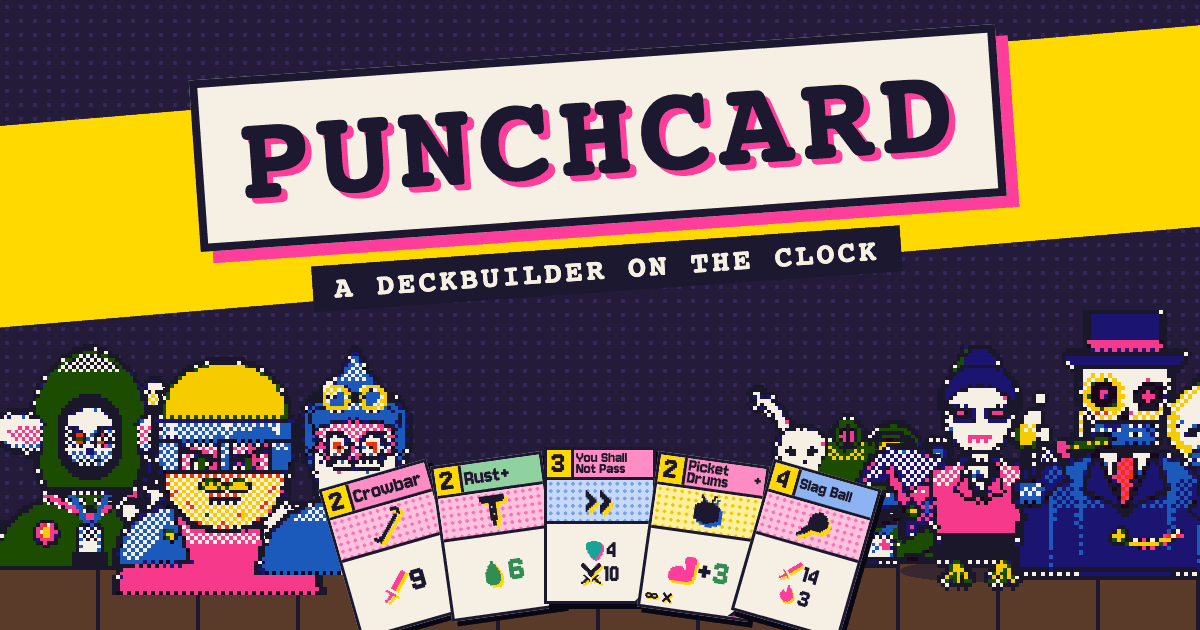
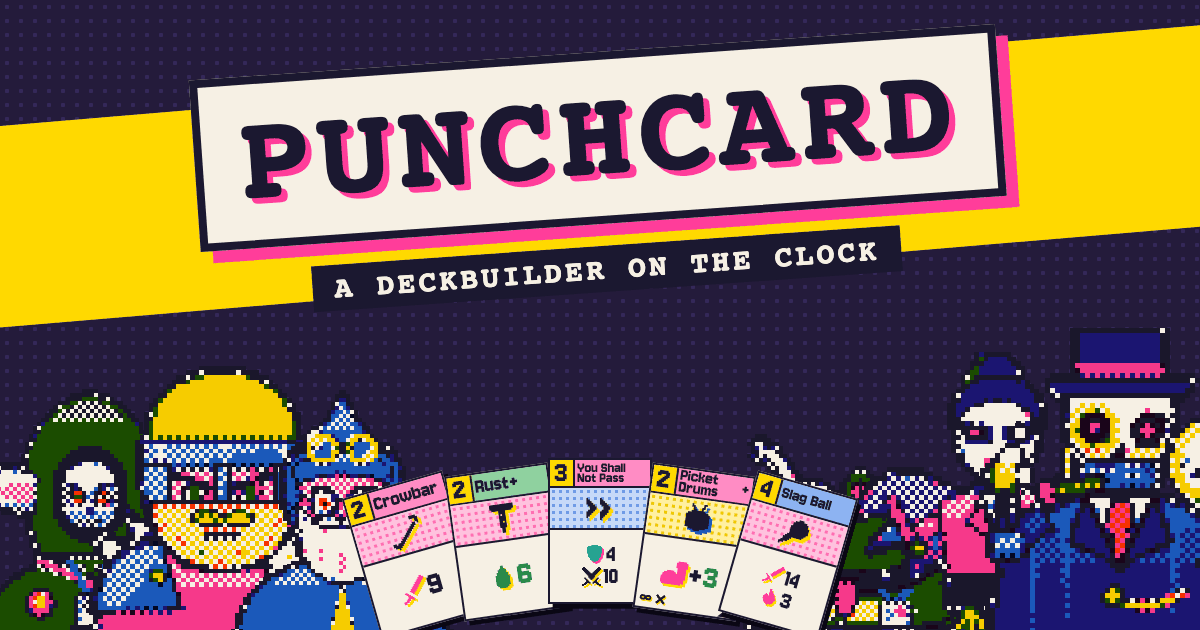
Link preview: bigger sprites standing on the bottom edge (no desk, no floating)

Changed region(s): [[0.0, 0.4825, 1.0, 1.0]]

diff --git a/dev/og.html b/dev/og.html
@@ -4,7 +4,6 @@ body { margin: 0; background: var(--void); }
 /* the link preview: 1200x630, built from the game's own sprites, cards and tokens (dev server: /dev/og.html) */
 #og { position: relative; width: 1200px; height: 630px; overflow: hidden; background-color: var(--bg); background-image: radial-gradient(var(--night-dot) 2px, transparent 2.5px); background-size: 14px 14px; }
 .og-band { position: absolute; inset: 0; background: var(--y); clip-path: polygon(0 20%, 100% 4%, 100% 36%, 0 52%); }
-.og-desk { position: absolute; left: 0; right: 0; bottom: 0; height: 110px; background: repeating-linear-gradient(90deg, var(--wood-edge) 0 96px, var(--k) 96px 100px); border-top: 8px solid var(--k); }
 #og .og-logo { margin: 0; padding: 12px 34px 20px; font-size: 124px; line-height: 1; letter-spacing: 6px; color: var(--k); background: var(--paper); border: 8px solid var(--k); box-shadow: 12px 12px 0 var(--p); text-shadow: 6px 6px 0 var(--p); animation: none; white-space: nowrap; }
 .og-sign { position: absolute; left: 50%; top: 52px; translate: -50% 0; rotate: -4deg; display: flex; flex-direction: column; align-items: center; gap: 22px; }
 .og-tag { padding: 8px 22px; font: 700 30px/1 var(--font-display); letter-spacing: 3px; text-transform: uppercase; color: var(--paper); background: var(--k); white-space: nowrap; }
@@ -12,10 +11,10 @@ body { margin: 0; background: var(--void); }
 .og-who .riso { width: 100%; height: 100%; }
 .og-shadow { position: absolute; height: 22px; background: var(--k); opacity: 0.55; border-radius: 50%; }
 .og-hand { position: absolute; left: 50%; bottom: 26px; display: flex; translate: -50% 0; }
-.og-hand .card { --cw: 112px; margin: 0 -12px; transform-origin: 50% 120%; }
+.og-hand .card { --cw: 104px; margin: 0 -12px; transform-origin: 50% 120%; }
 .vs { position: absolute; left: 50%; top: 330px; translate: -50% 0; font: 44px/1 var(--font-ui); color: var(--p); }
 </style></head><body><div id="og">
-<div class="og-band"></div><div class="og-desk"></div>
+<div class="og-band"></div>
 <div class="og-sign"><h1 class="logo og-logo">PUNCHCARD</h1><div class="og-tag">A deckbuilder on the clock</div></div>
 <div id="stage"></div>
 </div>
@@ -28,16 +27,16 @@ import { cardView } from '/src/ui/components/cardView.ts';
 await preloadArt({ creatures: CREATURES, icons: ICONS });
 await Promise.all([document.fonts.load('700 100px Silkscreen'), document.fonts.load('30px Jersey')]);
 await document.fonts.ready;
-const who = (id, x, y, flip = false, size = 270) =>
-  `<div class="og-shadow" style="left:${x + size * 0.18}px;top:${y + size * 0.86}px;width:${size * 0.64}px"></div><div class="og-who" style="left:${x}px;top:${y}px;width:${size}px;height:${size}px;${flip ? 'scale:-1 1' : ''}">${sprite(id)}</div>`;
+// feet on the bottom edge: the sprite's own shadow sits ~5% above the bottom of its box
+const who = (id, x, size, flip = false) => `<div class="og-who" style="left:${x}px;top:${632 - size * 0.95}px;width:${size}px;height:${size}px;${flip ? 'scale:-1 1' : ''}">${sprite(id)}</div>`;
 // heroes on the left facing the coworkers on the right
 document.getElementById('stage').innerHTML = [
-  who('necromancer', -25, 340, false, 230),
-  who('warrior', 100, 345, false, 250),
-  who('mage', 240, 345, false, 230),
-  who('toxicCoworker', 735, 345, true, 230),
-  who('hrBitch', 855, 345, true, 250),
-  who('slavesCeo', 990, 310, true, 270),
+  who('necromancer', -40, 260),
+  who('warrior', 75, 295),
+  who('mage', 215, 255),
+  who('toxicCoworker', 735, 255, true),
+  who('hrBitch', 850, 295, true),
+  who('slavesCeo', 960, 320, true),
 ].join('');
 const hand = document.createElement('div');
 hand.className = 'og-hand';
